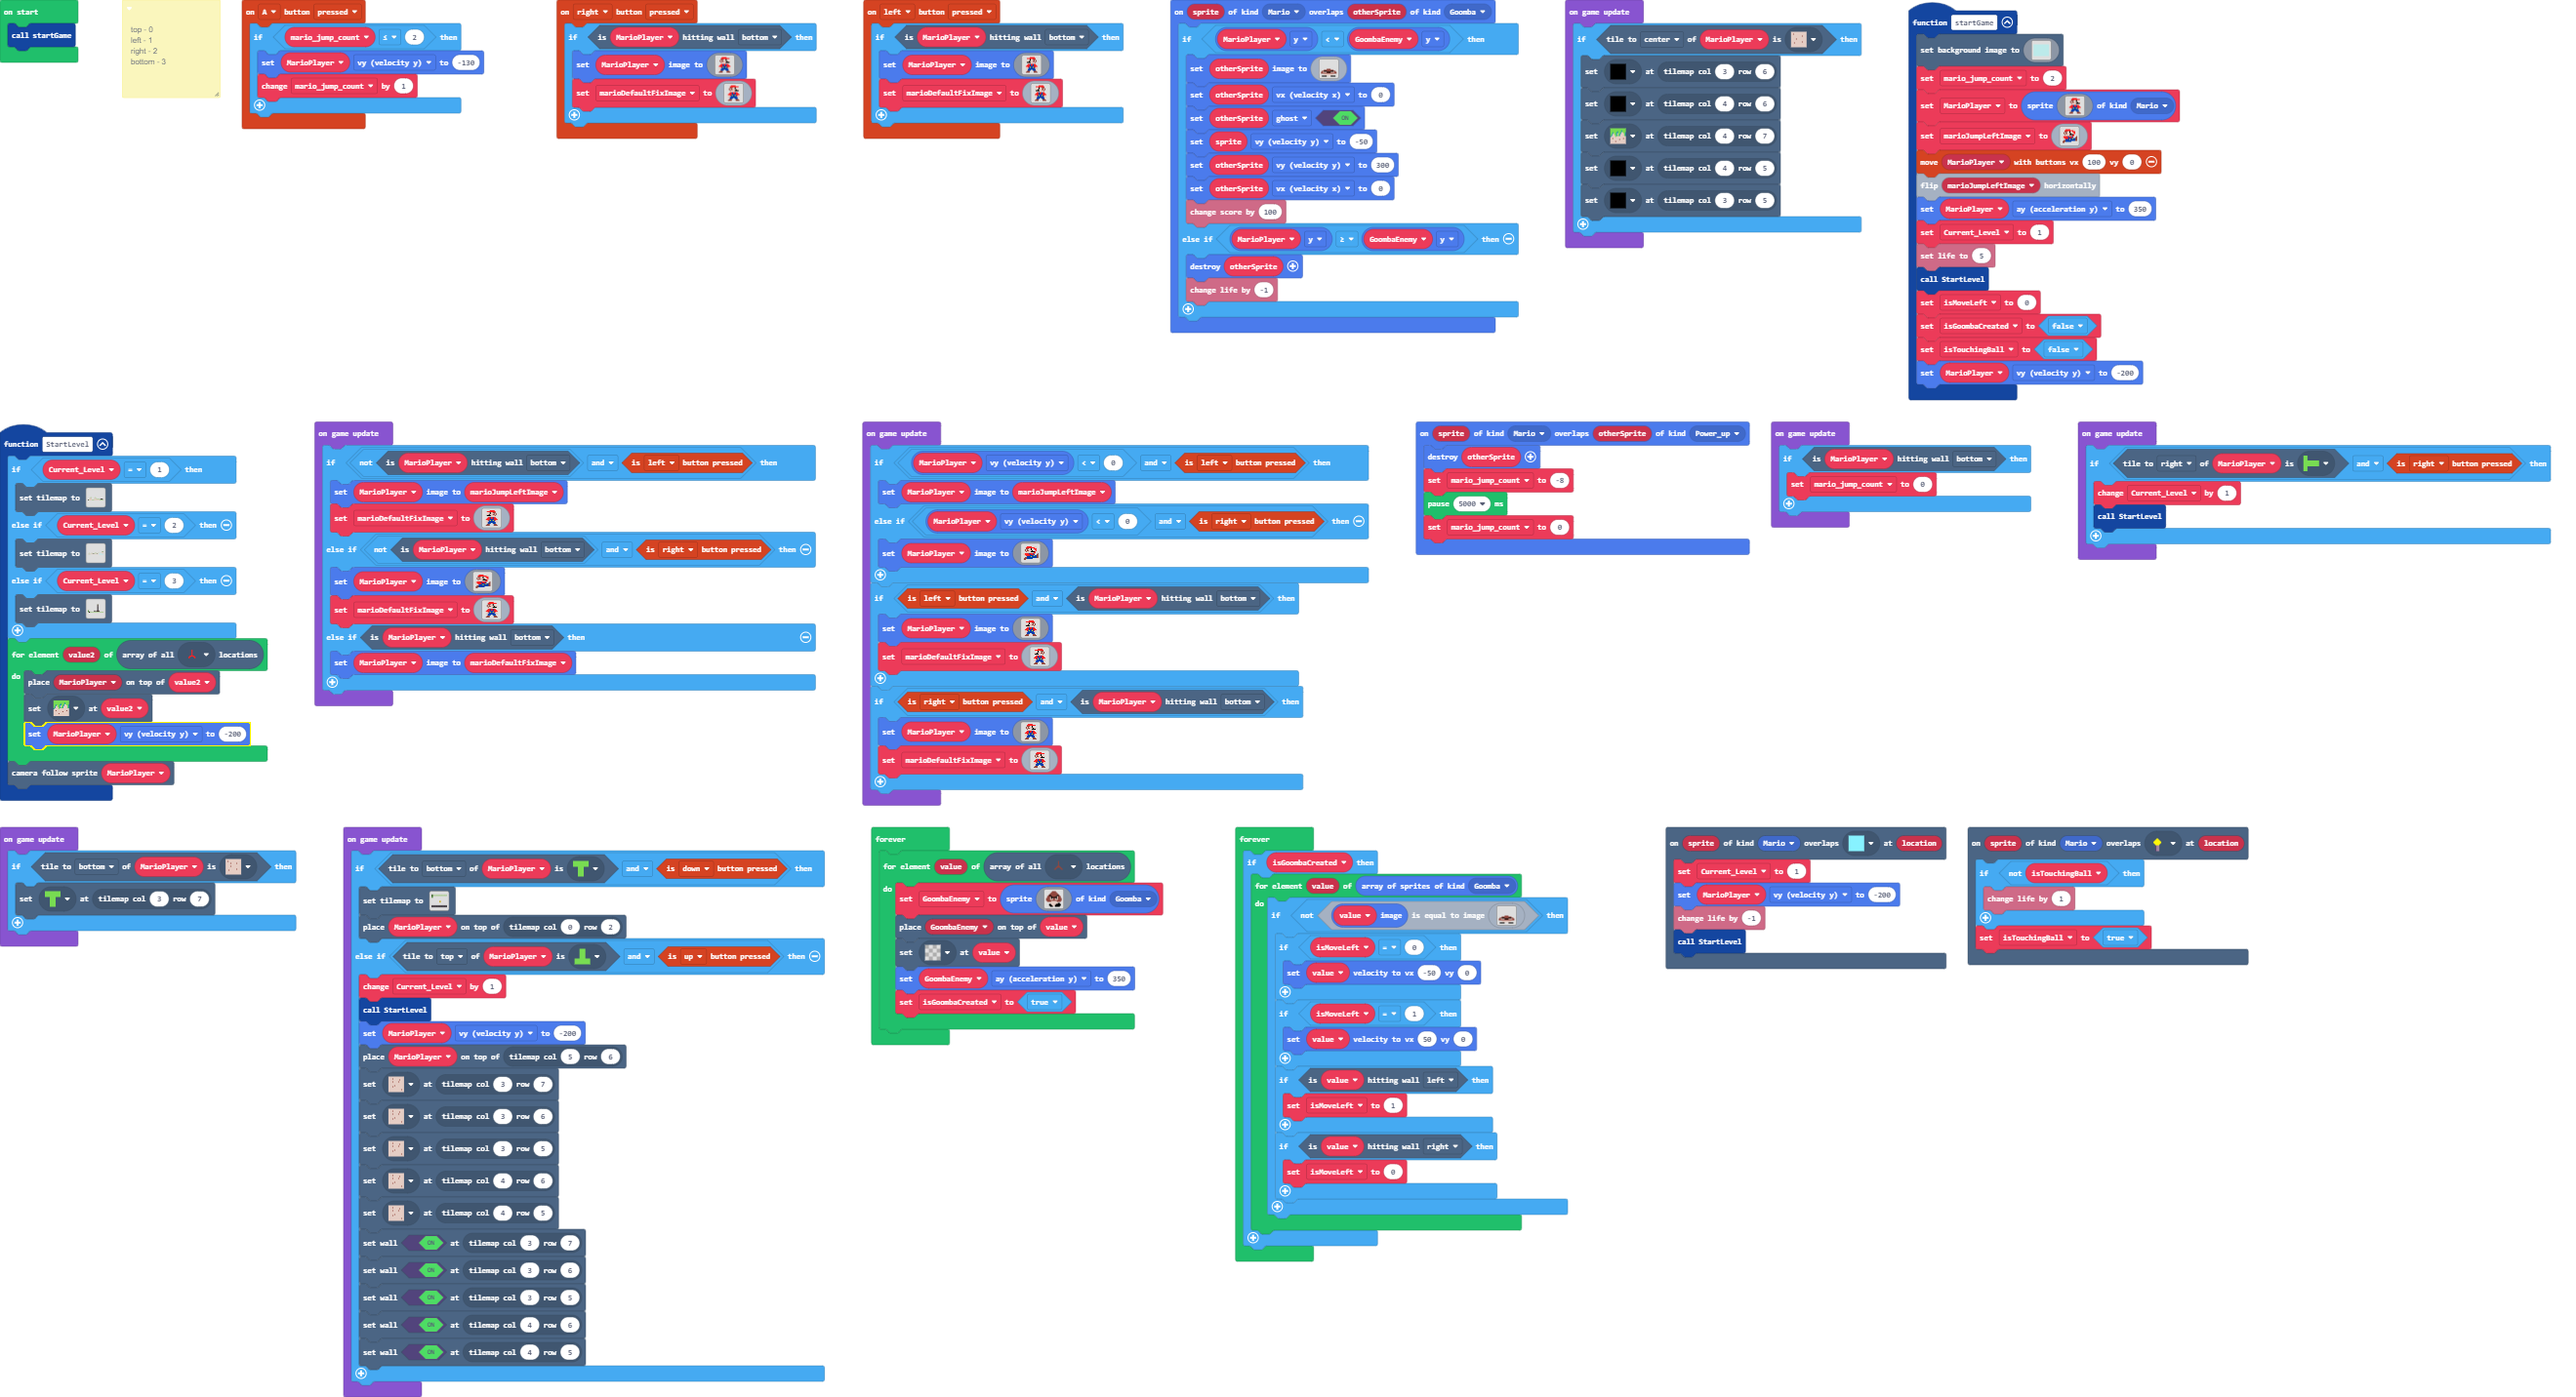
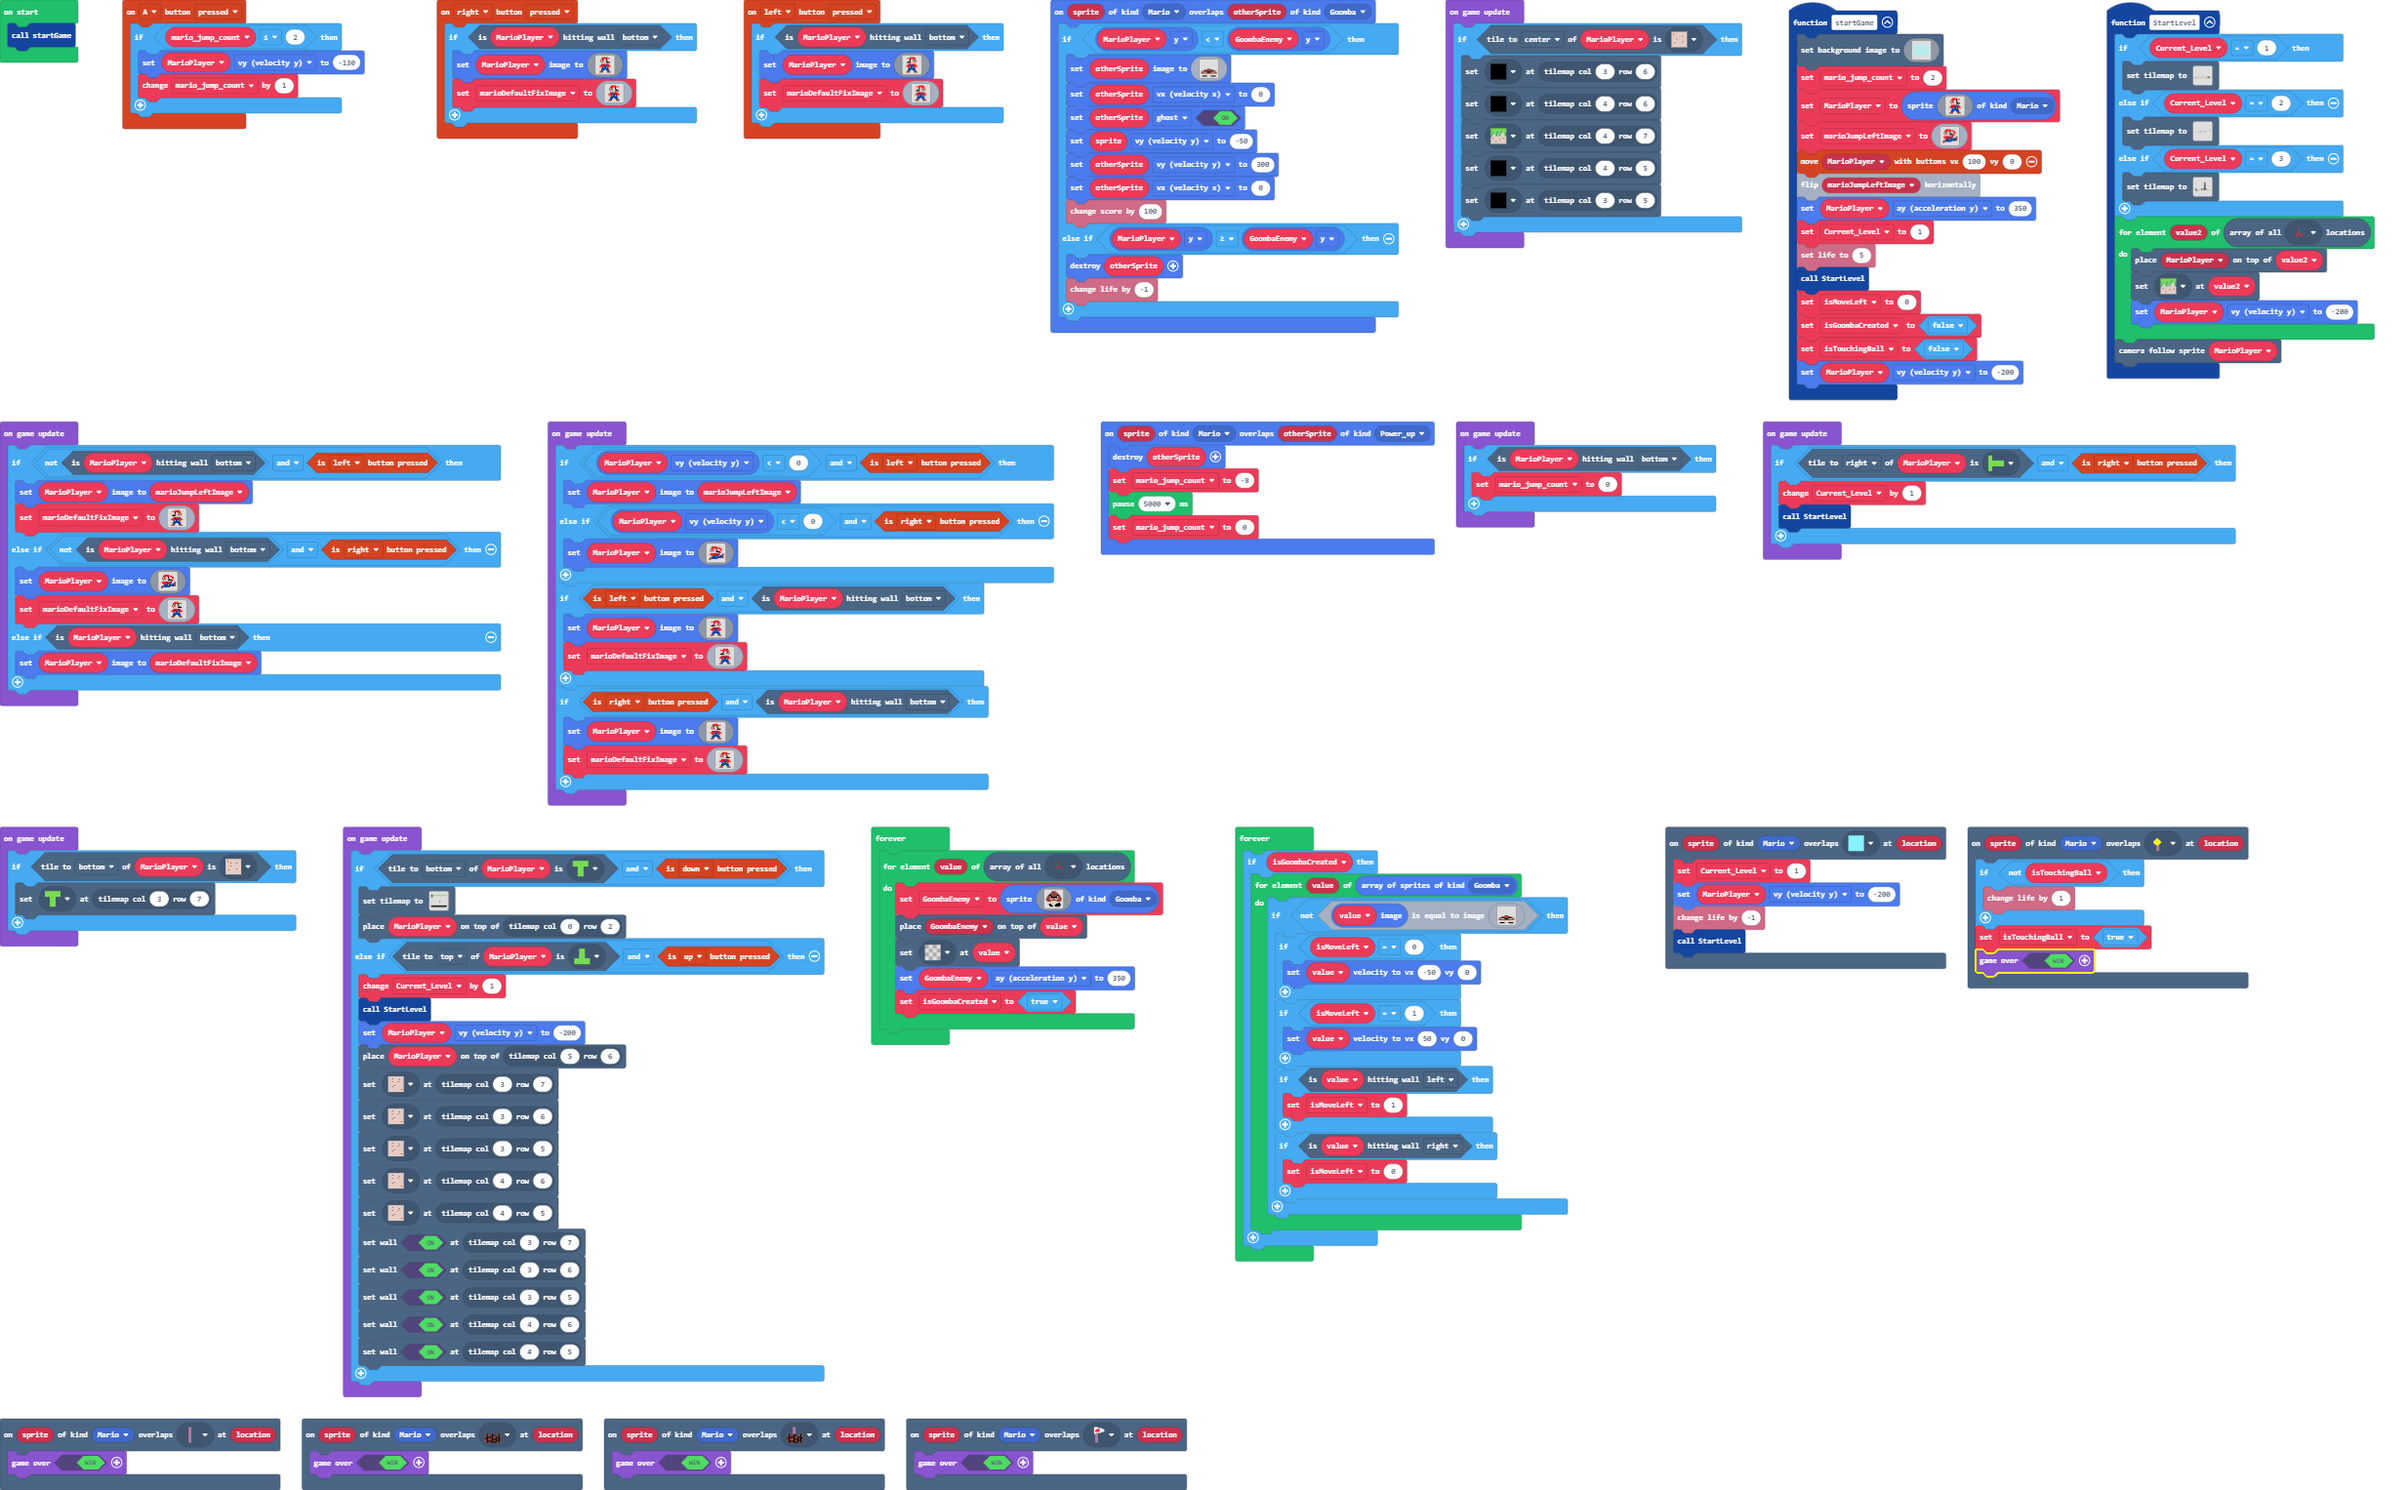
Update main.blocks, main.ts

diff --git a/main.ts b/main.ts
@@ -3,15 +3,6 @@ namespace SpriteKind {
     export const Goomba = SpriteKind.create()
     export const Power_up = SpriteKind.create()
 }
-/**
- * top - 0
- * 
- * left - 1
- * 
- * right - 2
- * 
- * bottom - 3
- */
 function StartLevel () {
     if (Current_Level == 1) {
         tiles.setTilemap(tiles.createTilemap(hex`1400080000000000000000000000000000000000000000000000000000000000000000000000000000000000000000000000000000000000000000000000000000000000000000000000000000000000000000000000000202000000000200000000000000000000000002010100000002060200000000000000000000000401010000000606060202020200050505000302010401020202060606060606060202020202`, img`
@@ -25,7 +16,7 @@ function StartLevel () {
             2 2 2 2 2 2 2 2 2 2 2 2 2 2 2 2 2 2 2 2 
             `, [myTiles.tile0,myTiles.tile6,myTiles.tile1,myTiles.tile3,myTiles.tile12,myTiles.tile2,myTiles.tile13], TileScale.Sixteen))
     } else if (Current_Level == 2) {
-        tiles.setTilemap(tiles.createTilemap(hex`280008000000000000000000000000000000000000000000000000000000000000000000000000000202020200000000000000000000000000000000000000000000000000000000000000000000000008090909000000000000000000000000000000000000000000000000000000000002000000000202040404040000000000000000000002000000000000000200000200000000000200000000020000000404040400000002020000000002040000000000000204020204000000000201000000000000000004040404000002010100000002060400050505050004040404040005050001010000000000000000040404040000040101000002060604020202020202020202020202020202010100000000000000000404040402020103010202040404040101010101010101010101010101010101070707070707070707070707`, img`
+        tiles.setTilemap(tiles.createTilemap(hex`280008000000000000000000000000000000000000000000000000000000000000000000000000000202020200000000000000000000000000000000000000000000000000000000000000000000000008090909000000000000000000000000000000000000000000000000000000000002000000000202040404040000000000000000000002000000000000000200000200000000000200000000020000000404040400000002020000000002040000000000000204020204000000000201000000000000000004040404000002010100000002060400050505050004040404040005050001010000000000000000040404040000040101000002060604020202020202010101010102020202010100000000000000000404040402020103010202040404040101010101010101010101010101010101070707070707070707070707`, img`
             . . . . . . . . . . . . . . . . . . . . . . . . . . . . . . . . . . . . 2 2 2 2 
             . . . . . . . . . . . . . . . . . . . . . . . . . . . . . . . . . . . . 2 2 2 2 
             . . . . . . . . . . . . . . . . . . . . . . . . . . . . . 2 . . . . 2 2 2 2 2 2 
@@ -54,6 +45,15 @@ function StartLevel () {
     }
     scene.cameraFollowSprite(MarioPlayer)
 }
+scene.onOverlapTile(SpriteKind.Mario, myTiles.tile20, function (sprite, location) {
+    game.over(true)
+})
+scene.onOverlapTile(SpriteKind.Mario, myTiles.tile21, function (sprite, location) {
+    game.over(true)
+})
+scene.onOverlapTile(SpriteKind.Mario, myTiles.tile19, function (sprite, location) {
+    game.over(true)
+})
 controller.A.onEvent(ControllerButtonEvent.Pressed, function () {
     if (mario_jump_count <= 2) {
         MarioPlayer.vy = -130
@@ -352,11 +352,15 @@ sprites.onOverlap(SpriteKind.Mario, SpriteKind.Power_up, function (sprite, other
     pause(5000)
     mario_jump_count = 0
 })
+scene.onOverlapTile(SpriteKind.Mario, myTiles.tile22, function (sprite, location) {
+    game.over(true)
+})
 scene.onOverlapTile(SpriteKind.Mario, myTiles.tile23, function (sprite, location) {
     if (!(isTouchingBall)) {
         info.changeLifeBy(1)
     }
     isTouchingBall = true
+    game.over(true)
 })
 let GoombaEnemy: Sprite = null
 let marioDefaultFixImage: Image = null
